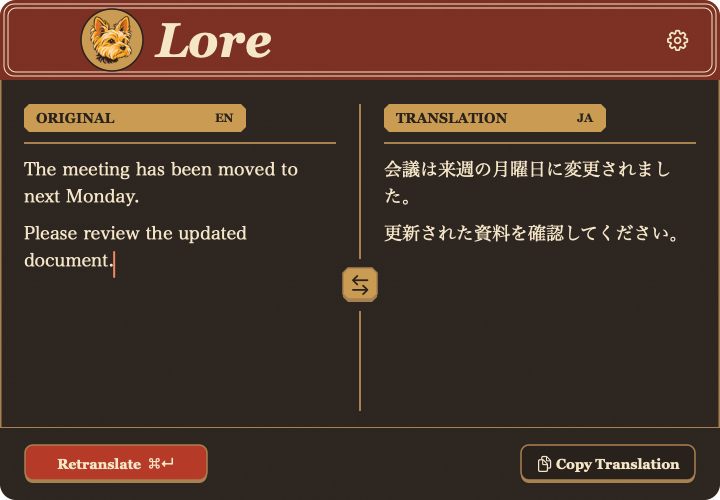
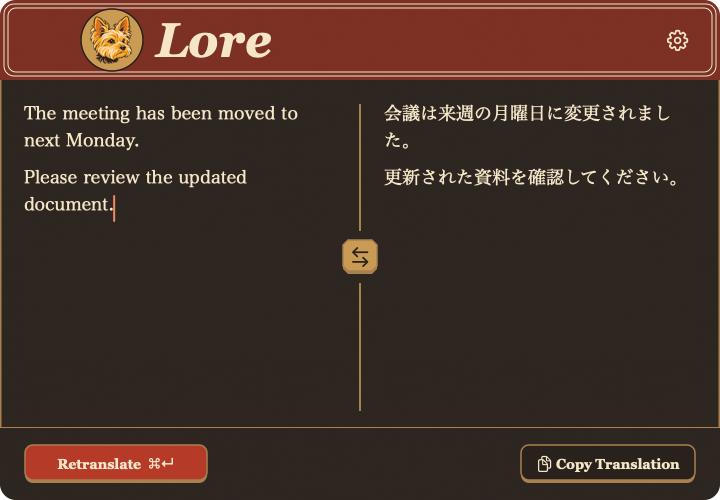
Update captures for the expanded translation area

diff --git a/design-qa.md b/design-qa.md
@@ -44,7 +44,7 @@ final result: blocked
 - Input faces and primary-button contrast are sampled using the capture's own ICC color space before converting to sRGB. AppKit's generic color wrapper must not reinterpret the raw display samples.
 - Header spacing is measured with AppKit alignment rectangles, with raw bounds checked separately for clipping and overlap.
 - Settings are a retained view controller inside the existing panel, with a fixed masthead and a vertically scrolling body. The back action and non-recording Esc restore the retained translation view without closing, clearing text or cancelling translation. Settings cannot undo hidden translator edits; a newly selected passage returns to the translator before clearing the previous editing session. Native close and Command-W close the shared window. Leaving settings ends recording while retaining held-key release protection.
-- The latest follow-up macOS results and native captures are available from [PR #5](https://github.com/my-name-is-yu/Lore/pull/5). Baseline captures for commit 8e556e2 were inspected during the consistency review; they do not validate later follow-up changes.
+- The original vintage implementation and earlier consistency results are available from [PR #5](https://github.com/my-name-is-yu/Lore/pull/5). Baseline captures for commit 8e556e2 were inspected during the consistency review; they do not validate later follow-up changes.
 
 ## Lightweight usability follow-up
 
@@ -72,3 +72,9 @@ ctest --test-dir build --output-on-failure
 Compare native captures in `build/panel-smoke/` and `build/settings-smoke/` with the selected reference using the same sample text and viewport. Content-view captures omit OS titlebar overlays: inspect a real window screenshot for the traffic lights, their spacing from the medallion, and native focus/drag/close behavior. Check the actual OS Reduce Motion and Increase Contrast settings, selection translation without taking focus, and both language directions in the running app.
 
 Do not change this report to passed until the native build, tests, full-window review and reference comparison pass. Whole-app resource measurements remain separately documented in README.
+
+## Expanded text-area verification
+
+- [Native CI run 43360514233](https://github.com/my-name-is-yu/Lore/actions/runs/43360514233) for implementation commit `b9fb0569df8a855dca9c71c1668263dff6e0ec6c` passed arm64 build/signature checks, all five CTests, pointer feedback and official-model translation.
+- Inspected the new light and minimum-size dark captures. Both pane tops are 24pt below the masthead, and native smoke tests retain direction, reverse-translation, long-text scrolling and accessible source/translation roles.
+- The deleted bands and rules, their constraints and display-only language state are removed rather than hidden.

diff --git a/design/screenshots/README.md b/design/screenshots/README.md
@@ -1,9 +1,9 @@
 # Implemented UI captures
 
 These unmodified PNGs are AppKit content-view captures from the macOS CI run for
-implementation commit `00da97ae1f1e3e916dcafc49ed8ebfab519af031`:
-[run 43358055863](https://github.com/my-name-is-yu/Lore/actions/runs/43358055863),
-artifact `panel-view-captures` (ID `14006458888`).
+implementation commit `b9fb0569df8a855dca9c71c1668263dff6e0ec6c`:
+[run 43360514233](https://github.com/my-name-is-yu/Lore/actions/runs/43360514233),
+artifact `panel-view-captures` (ID `14006949909`).
 
 | File | Artifact source |
 | --- | --- |
@@ -24,3 +24,7 @@ The captures include the compact shortcut headings and setup guidance, shared
 paper scrolling, and the footer hint hidden after input. Long English/Japanese
 scrolling, error reveal, keyboard focus and native help are exercised by the
 same run; their additional PNGs remain in the linked CI artifact.
+
+The pane heading bands, language badges and horizontal rules have been removed.
+Both translation text panes now start 24pt below the masthead and gain 55.5pt
+of reading height at the same window size.
